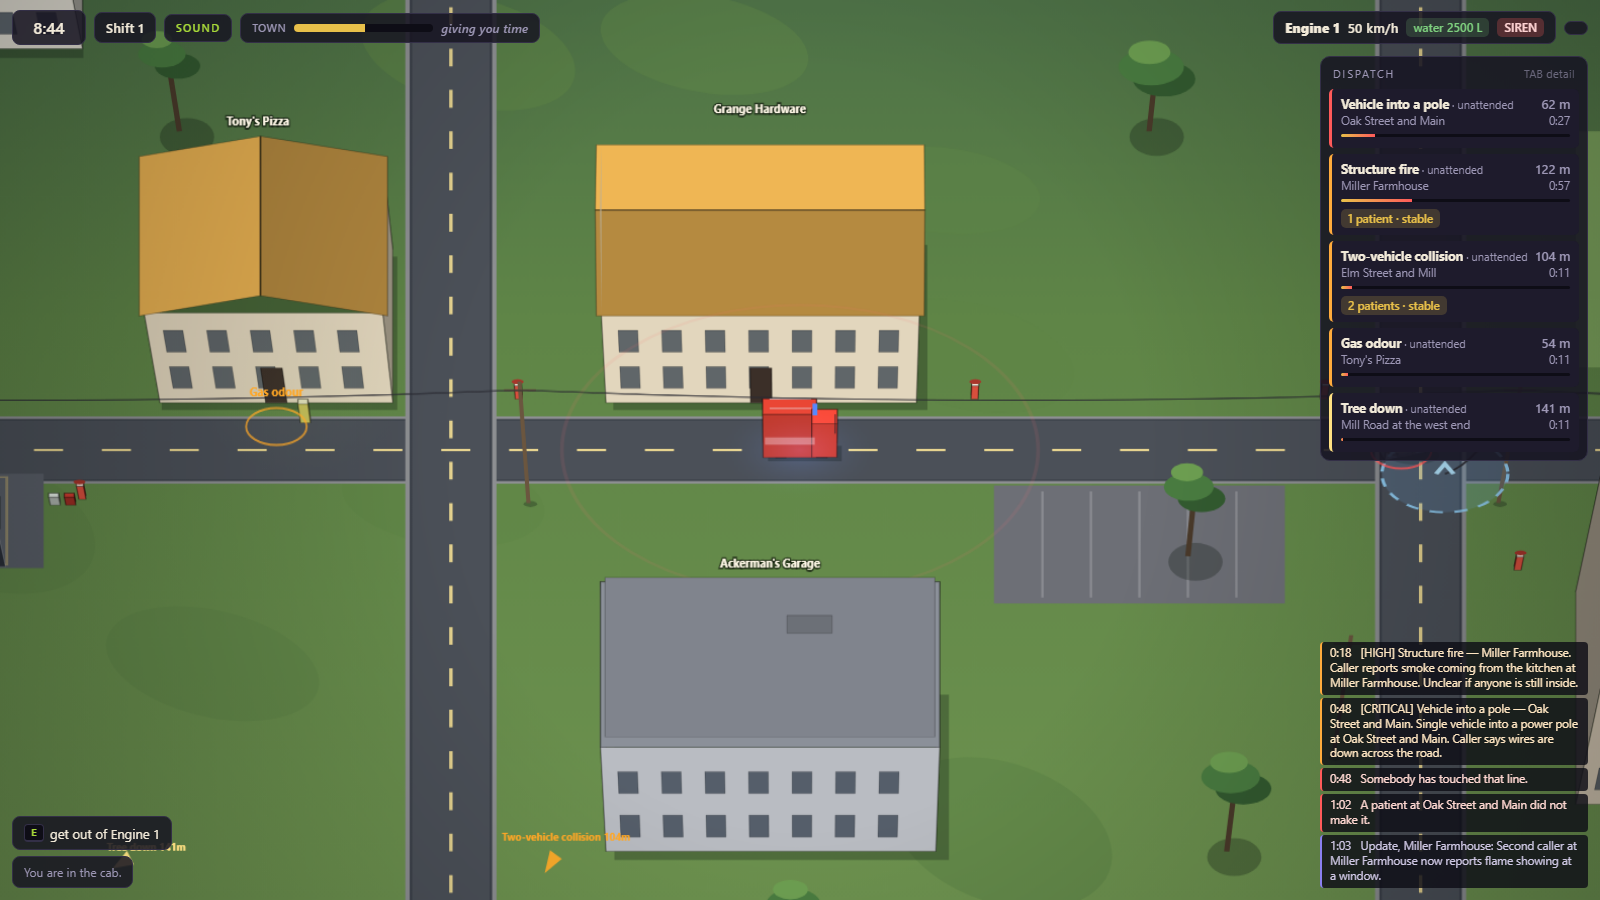
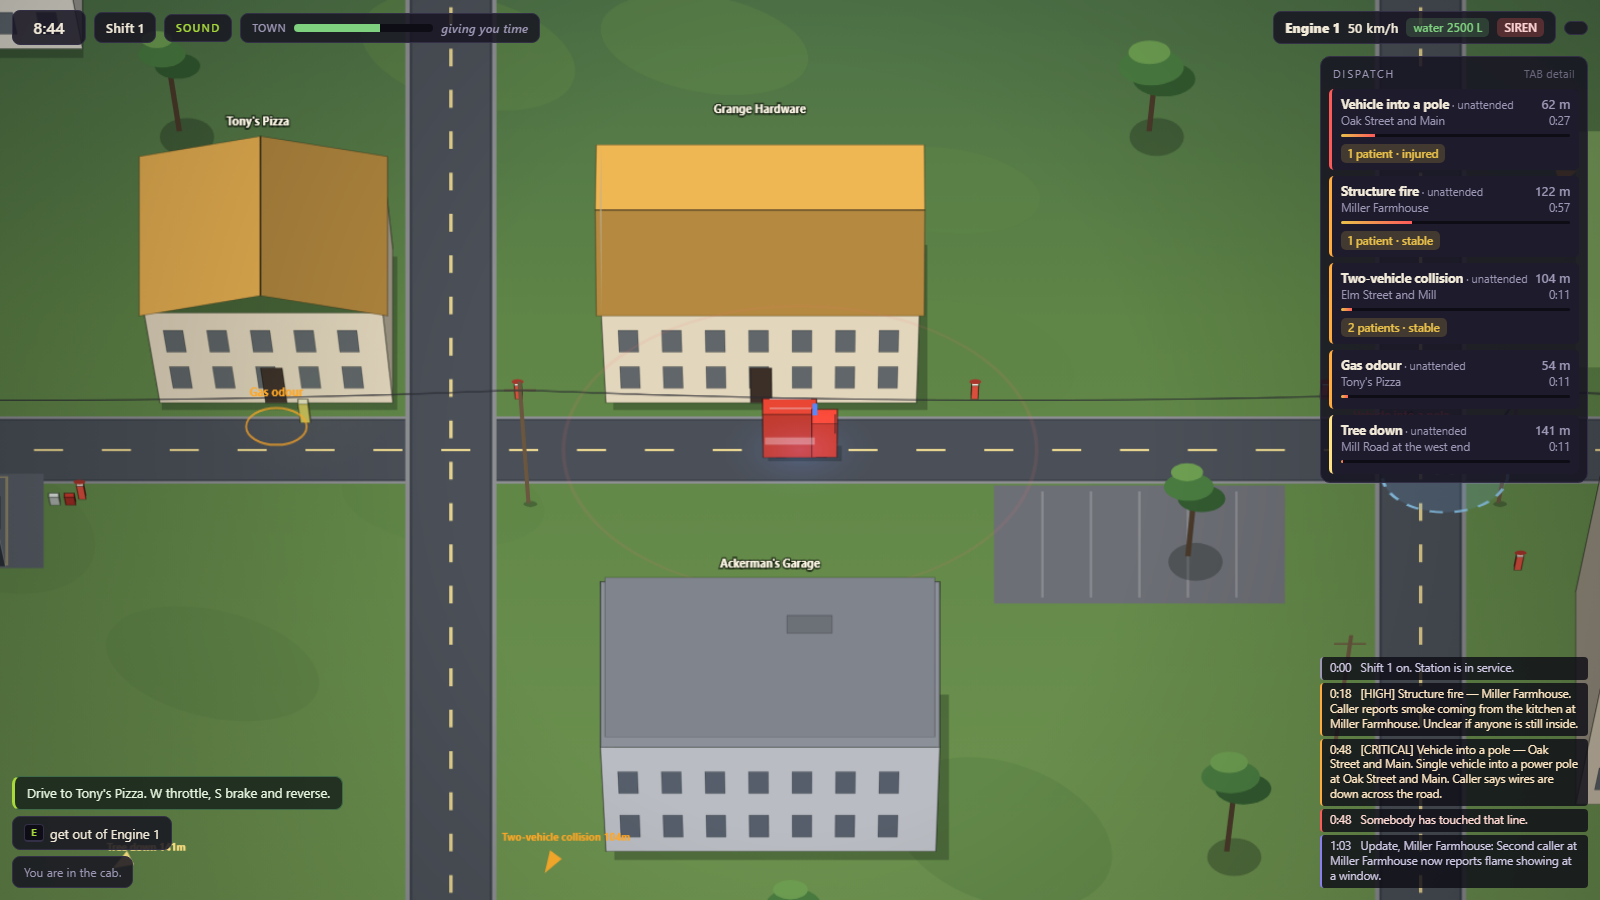
A frame a phone can afford: 8.1 ms -> 0.64 ms
Measured before touching anything, by wrapping the renderer's own methods:
drawApparatus was 3.26 ms of a 4.33 ms frame -- 75% -- for three trucks.
Not polygon volume: per-call overhead.

- Wheels were four EXTRUDED prisms per truck, twenty filled and stroked
  polygons each, for a shape 1 m by 0.4 m half hidden under the body. They
  are flat quads now and read identically at every zoom the game uses.
  drawApparatus: 3.26 ms -> 0.09 ms.
- shade() re-parsed a colour string for every face of every prism on every
  frame, with the same handful of pairs each time. Cached.
- Nothing was culled. At phone zoom -- 60 m across a 420 m town -- ten
  buildings were being extruded, windowed and lit for nothing every frame.
  Props outside the visible rectangle are skipped, with a generous margin
  because a building draws well above where it stands in this projection
  and its smoke goes higher still.

Phone driving 8.12 -> 0.64 ms a frame, 62 props -> 26, 488 filled polygons
-> 212. The town screenshot is pixel-identical.

m4 section F: seven assertions, including the failure that actually
matters -- that nothing inside the frame, or just off the top edge where
it still draws down into view, is ever culled. 59 in m4.

diff --git a/tools/_perfdiag.js b/tools/_perfdiag.js
@@ -9,6 +9,7 @@ import { CONFIG } from '../src/config.js';
 import { Rng } from '../src/core/rng.js';
 import { TEMPLATE_BY_ID } from '../src/data/incidents.js';
 import { createIncident } from '../src/sim/incidentSim.js';
+import { TouchControls } from '../src/ui/touch.js';
 
 const lines = [];
 let _pre = null;
@@ -49,7 +50,16 @@ try {
   S.camera.resize(document.getElementById('stage'));
   S.camera.follow(s.player.x, s.player.y, 0);
 
-  for (const [name, width] of [['on foot', CONFIG.render.viewWidthOnFootM],
+  /* A phone is the machine most likely to open a shared link, and it is also the one
+     with the least to spend: a mid-range Android is several times slower than this
+     desktop, so a 16 ms budget here is a 40 ms frame there. Measure the phone's actual
+     zoom, not the desktop one. */
+  const phoneWidths = [
+    ['phone, on foot', TouchControls.viewWidthFor(390, false)],
+    ['phone, driving', TouchControls.viewWidthFor(390, true)],
+  ];
+
+  for (const [name, width] of [...phoneWidths, ['on foot', CONFIG.render.viewWidthOnFootM],
     ['driving', CONFIG.render.viewWidthM], ['whole town', 420]]) {
     S.camera.viewWidthM = width;
     S.camera._recomputeScale();
@@ -60,6 +70,61 @@ try {
     const per = (performance.now() - t0) / N;
     lines.push(`${name.padEnd(10)} ${width} m across: ${per.toFixed(2)} ms/frame ` +
       `(${(1000 / per).toFixed(0)} fps ceiling, ${S.renderer.props.length} props)`);
+  }
+  /* Where the time actually goes.
+   *
+   * Wrapping the renderer's own methods is the only honest way to answer it: a guess
+   * about "probably the gradients" is how you end up optimising something that costs
+   * 4% of the frame. Nested calls are attributed to the outermost wrapped method, so
+   * the numbers add up to roughly one frame rather than double-counting. */
+  lines.push('');
+  lines.push('=== where a frame goes (phone zoom, driving) ===');
+  S.camera.viewWidthM = TouchControls.viewWidthFor(390, true);
+  S.camera._recomputeScale();
+  const R = Object.getPrototypeOf(S.renderer);
+  const cost = {};
+  let depth = 0;
+  const names = Object.getOwnPropertyNames(R).filter((n) =>
+    n.startsWith('draw') || n === 'collectProps' || n === 'prism');
+  const originals = {};
+  for (const n of names) {
+    originals[n] = R[n];
+    R[n] = function wrapped(...args) {
+      if (depth > 0) return originals[n].apply(this, args);
+      depth++;
+      const t0 = performance.now();
+      try { return originals[n].apply(this, args); }
+      finally { depth--; cost[n] = (cost[n] || 0) + (performance.now() - t0); }
+    };
+  }
+  const N = 40;
+  const tAll0 = performance.now();
+  for (let i = 0; i < N; i++) S.renderer.render(s, 2000 + i * 16);
+  const tAll = performance.now() - tAll0;
+  for (const n of names) R[n] = originals[n];
+
+  /* One level down: how much geometry is actually being issued, and by whom. A method
+     that is 76% of a frame is either doing something enormous or doing something small
+     an enormous number of times, and the fix is completely different either way. */
+  const calls = { fillPoly: 0, prism: 0, gradient: 0, path: 0 };
+  const realFill = R.fillPoly, realPrism = R.prism, realPath = R.path;
+  R.fillPoly = function (...a) { calls.fillPoly++; return realFill.apply(this, a); };
+  R.prism = function (...a) { calls.prism++; return realPrism.apply(this, a); };
+  R.path = function (...a) { calls.path++; return realPath.apply(this, a); };
+  const ctx2d = S.renderer.ctx;
+  const realGrad = ctx2d.createRadialGradient.bind(ctx2d);
+  ctx2d.createRadialGradient = function (...a) { calls.gradient++; return realGrad(...a); };
+  S.renderer.render(s, 3000);
+  R.fillPoly = realFill; R.prism = realPrism; R.path = realPath;
+  ctx2d.createRadialGradient = realGrad;
+  lines.push(`  per frame: ${calls.fillPoly} filled polygons · ${calls.prism} prisms · ` +
+    `${calls.path} paths · ${calls.gradient} gradients built`);
+
+  const rows = Object.entries(cost).map(([n, ms]) => [n, ms / N]).sort((a, b) => b[1] - a[1]);
+  const total = tAll / N;
+  lines.push(`  whole frame ${total.toFixed(2)} ms`);
+  for (const [n, ms] of rows.slice(0, 10)) {
+    lines.push(`  ${n.padEnd(20)} ${ms.toFixed(2)} ms  ${(ms / total * 100).toFixed(0).padStart(3)}%`);
   }
   emit();
 } catch (err) {

diff --git a/src/render/renderer.js b/src/render/renderer.js
@@ -83,7 +83,21 @@ function wobble(i, t, speed = 6) {
  * BLACK. The truck cab, the wrecked car's cabin, the church steeple and every tool lying
  * on the ground, all silently painted black by a bitwise operator being too forgiving.
  */
+const _shadeCache = new Map();
 function shade(colour, k) {
+  /* Cached. Every face of every prism asks for a shade, with the same handful of
+     (colour, factor) pairs on every frame — three trucks alone were 76% of a frame and
+     this was part of it. A Map lookup replaces a parseInt or a regex, three rounds and
+     a template string, and the set of pairs is tiny and bounded by the palette. */
+  const key = colour + '|' + k;
+  const hit = _shadeCache.get(key);
+  if (hit !== undefined) return hit;
+  const out = computeShade(colour, k);
+  _shadeCache.set(key, out);
+  return out;
+}
+
+function computeShade(colour, k) {
   let r, g, b;
   if (colour[0] === '#') {
     const n = parseInt(colour.slice(1), 16);
@@ -357,18 +371,44 @@ export class Renderer {
   collectProps(state, t) {
     const cam = this.camera;
 
-    for (const b of BUILDINGS) this.collectBuilding(state, b, t);
+    /* Cull what is not on screen.
+     *
+     * Every building was extruded, windowed and lit on every frame no matter where the
+     * camera was, and at phone zoom — 60 m across a 420 m town — that is ten buildings
+     * drawn for nothing. Measured: buildings were 4.07 ms of a 4.80 ms frame.
+     *
+     * The test is generous on purpose. A building's drawn silhouette rises well above
+     * its footprint in this projection and leans sideways with the lean, and smoke and
+     * flame go higher still, so the margin is the tallest thing in town projected, not
+     * the footprint. Culling something that is genuinely visible is a hole in the world;
+     * keeping a few extra is a rounding error. */
+    const v = cam.visibleM;
+    const upM = (20 * cam.heightK) / cam.tilt + 30;      // tallest roof + its smoke column
+    const inView = (x, y, w = 0, h = 0) =>
+      x + w >= v.x - 24 && x <= v.x + v.w + 24 &&
+      y + h >= v.y - 12 && y <= v.y + v.h + upM;
+    this.culled = 0;
+
+    for (const b of BUILDINGS) {
+      if (!inView(b.x, b.y, b.w, b.h)) { this.culled++; continue; }
+      this.collectBuilding(state, b, t);
+    }
 
     for (let i = 0; i < TREES.length; i++) {
       const tr = TREES[i];
+      if (!inView(tr.x - 5, tr.y - 5, 10, 10)) { this.culled++; continue; }
       this.prop(tr.y, (ctx) => this.drawTree(ctx, tr.x, tr.y, i, t),
         (ctx) => this.groundShadow(ctx, tr.x, tr.y, 2.8, 3.2));
     }
 
     for (const h of HYDRANTS) {
+      if (!inView(h.x - 2, h.y - 2, 4, 4)) { this.culled++; continue; }
       this.prop(h.y, (ctx) => this.drawHydrant(ctx, state, h));
     }
     for (const p of POLES) {
+      // a pole is short but its WIRES run to the next one, which may be off screen —
+      // the wires are drawn in their own pass and are not culled with the pole
+      if (!inView(p.x - 3, p.y - 3, 6, 6)) { this.culled++; continue; }
       this.prop(p.y, (ctx) => this.drawPole(ctx, p),
         (ctx) => this.groundShadow(ctx, p.x, p.y, 0.7, 0.5));
     }
@@ -1094,10 +1134,15 @@ export class Renderer {
     const pt = (dx, dy) => ({ x: ap.x + dx * ca - dy * sa, y: ap.y + dx * sa + dy * ca });
     const quad = (x0, y0, x1, y1) => [pt(x0, y0), pt(x1, y0), pt(x1, y1), pt(x0, y1)];
 
-    // wheels first, so the body sits on them
+    /* Wheels first, so the body sits on them — but FLAT.
+     *
+     * They were four extruded prisms per truck: twenty filled and stroked polygons each,
+     * for a shape 1 m by 0.4 m that is half hidden under the body. Measured, three
+     * trucks were taking 3.4 ms of a 4.5 ms frame — 76% — and this was most of it. A
+     * dark quad at ground level reads exactly the same at every zoom the game uses. */
     for (const wx of [L * 0.30, -L * 0.26]) {
       for (const wy of [-W / 2 - 0.05, W / 2 - 0.35]) {
-        this.prism(ctx, quad(wx - 0.5, wy, wx + 0.5, wy + 0.4), 0.75, { wall: '#20232a', top: '#2c3039' });
+        this.fillPoly(ctx, quad(wx - 0.5, wy, wx + 0.5, wy + 0.4), '#20232a');
       }
     }
 

diff --git a/tools/m4-tests.js b/tools/m4-tests.js
@@ -14,7 +14,7 @@ import { Camera } from '../src/render/camera.js';
 import { Renderer, shade } from '../src/render/renderer.js';
 import { Game } from '../src/game.js';
 import { clearSave } from '../src/core/persistence.js';
-import { BUILDING_BY_ID } from '../src/data/town.js';
+import { BUILDING_BY_ID, BUILDINGS } from '../src/data/town.js';
 import { WORLD } from '../src/data/town.js';
 
 /* ── harness ─────────────────────────────────────────────────────────────── */
@@ -248,9 +248,58 @@ lines.push('--- E. shading (this one cost an evening: it painted trucks black) -
   eq('E7 nonsense is passed through, not turned into black', shade('nonsense', 0.5), 'nonsense');
 }
 
+/* ── F. culling ──────────────────────────────────────────────────────────── */
+function sectionF() {
+lines.push('--- F. what is off screen is not drawn (and what is on screen still is) ---');
+  const g = freshGame(4400);
+  const s = g.state;
+  const canvas = document.createElement('canvas');
+  canvas.width = 800; canvas.height = 450;
+  const cam = freshCamera();
+  const r = new Renderer(canvas, cam);
+
+  // parked over the station, at the tight zoom a phone uses
+  cam.centre = { x: 94, y: 158 };
+  cam.viewWidthM = 60; cam._recomputeScale();
+  r.render(s, 0);
+  const tight = r.props.length;
+  const culledTight = r.culled;
+  gt('F1 a tight camera culls most of the town', culledTight, 5);
+  gt('F2 while still having something to draw', tight, 3);
+
+  cam.viewWidthM = 420; cam.centre = { x: 210, y: 150 }; cam._recomputeScale();
+  r.render(s, 0);
+  const wide = r.props.length;
+  gt('F3 the whole town on screen draws more than a street of it', wide, tight);
+  eq('F4 and culls nothing', r.culled, 0);
+  lines.push(`      ${tight} props at 60 m across (${culledTight} culled) · ${wide} at 420 m`);
+
+  /* The failure that matters is the other one: a hole in the world. Anything whose
+     footprint is inside the visible rectangle must survive, and so must anything just
+     off the top edge, because in this projection a building draws well above where it
+     stands and its smoke goes higher still. */
+  cam.viewWidthM = 60; cam.centre = { x: 192, y: 150 }; cam._recomputeScale();
+  r.render(s, 0);
+  const onScreen = BUILDINGS.filter((b) => {
+    const v = cam.visibleM;
+    return b.x + b.w >= v.x && b.x <= v.x + v.w && b.y + b.h >= v.y && b.y <= v.y + v.h;
+  });
+  gt('F5 the test camera really is looking at something', onScreen.length, 0);
+  ok('F6 every building inside the frame is still collected',
+    onScreen.every((b) => r.props.some((p) => Math.abs(p.depth - (b.y + b.h)) < 0.001)),
+    onScreen.map((b) => b.id).join(','));
+
+  const above = BUILDING_BY_ID.hardware;    // north of Main Street, draws down into view
+  cam.centre = { x: above.x + above.w / 2, y: above.y + above.h + 34 };
+  cam._recomputeScale();
+  r.render(s, 0);
+  ok('F7 a building just off the top edge is kept, because it draws down into the frame',
+    r.props.some((p) => Math.abs(p.depth - (above.y + above.h)) < 0.001));
+}
+
 /* ── go ──────────────────────────────────────────────────────────────────── */
 try {
-  sectionA(); sectionB(); sectionC(); sectionD(); sectionE();
+  sectionA(); sectionB(); sectionC(); sectionD(); sectionE(); sectionF();
   emit(null);
 } catch (err) {
   fails++;
